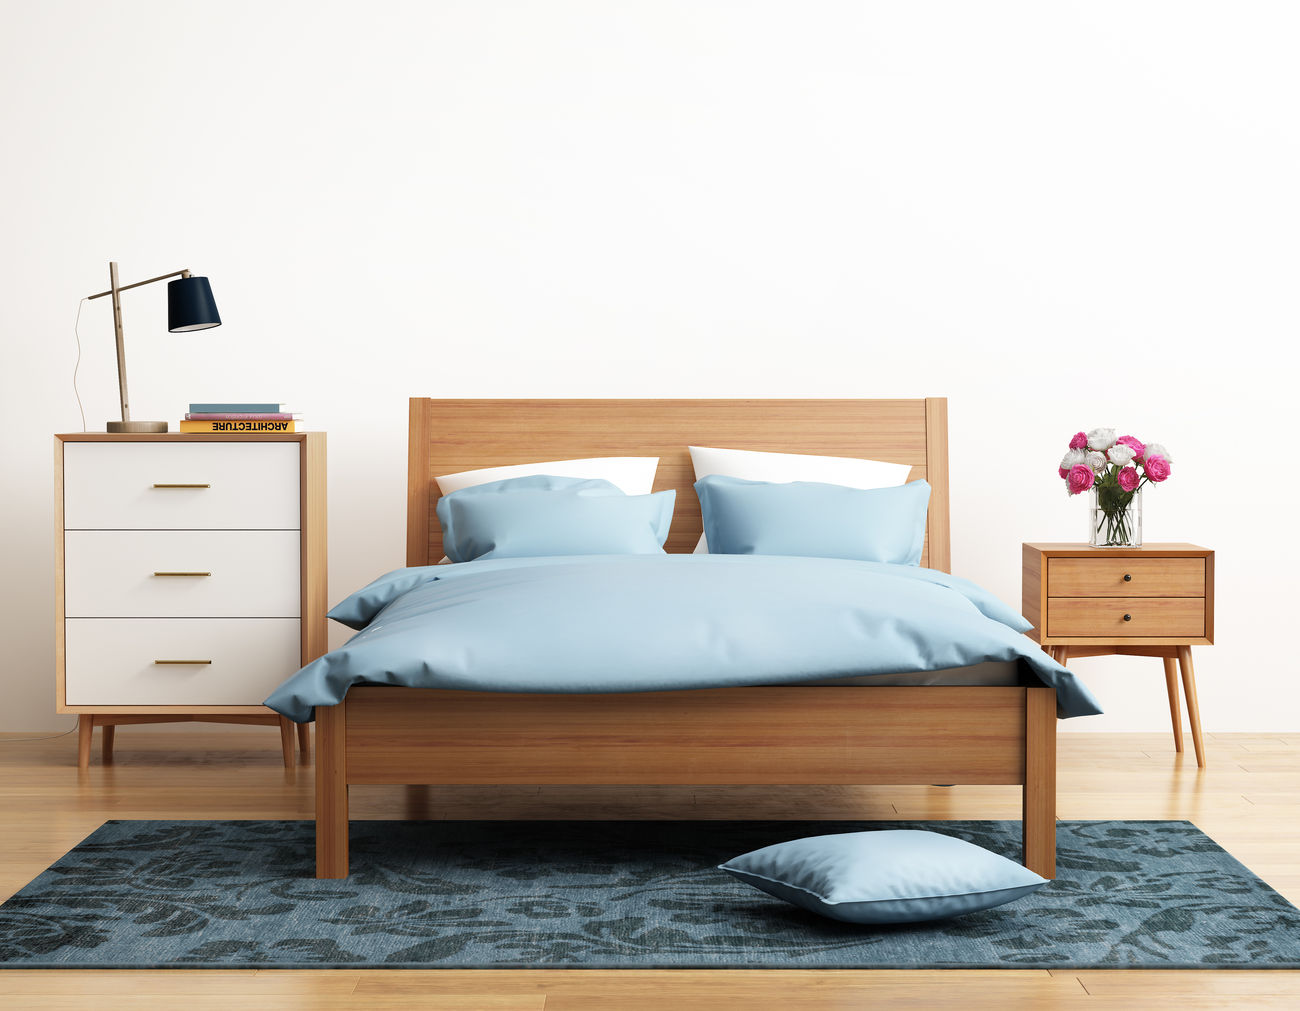
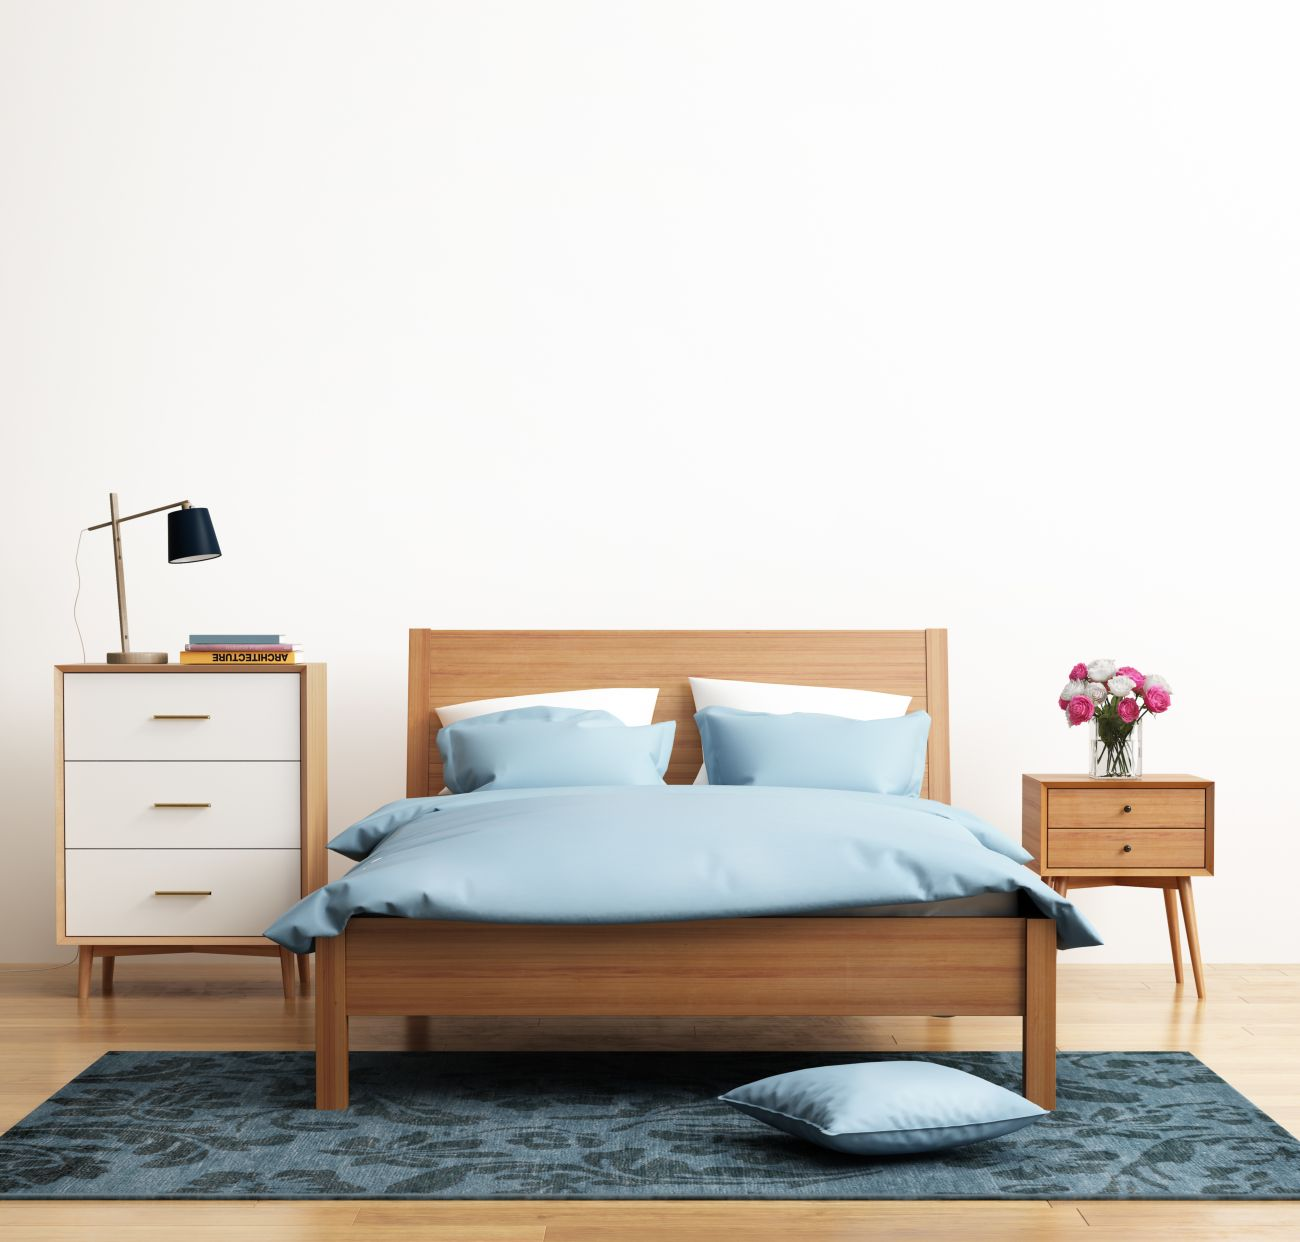
interier preview: set individual size ranges for each interior

diff --git a/templates1/index.html b/templates1/index.html
@@ -930,37 +930,38 @@
                                         <div class="accordion-content">
                                             <div class="interior-slider">
                                                 <div>
-                                                    <div class="interior-item active" data-interior="../img/interior/img1_big.jpg">
+                                                    <div class="interior-item active"
+                                                     data-interior="../img/interior/img1_big.jpg" data-size="200, 300">
                                                         <i class="icon-down-arrow"></i>
                                                         <img src="../img/interior/img1_s.jpg" alt="">
                                                     </div>
                                                 </div>
                                                 <div>
-                                                    <div class="interior-item" data-interior="../img/interior/img2_big.jpg">
+                                                    <div class="interior-item" data-interior="../img/interior/img2_big.jpg" data-size="360, 500">
                                                         <i class="icon-down-arrow"></i>
                                                         <img src="../img/interior/img2_s.jpg" alt="">
                                                     </div>
                                                 </div>
                                                 <div>
-                                                    <div class="interior-item" data-interior="../img/interior/img3_big.jpg">
+                                                    <div class="interior-item" data-interior="../img/interior/img3_big.jpg" data-size="250, 400">
                                                         <i class="icon-down-arrow"></i>
                                                         <img src="../img/interior/img3_s.jpg" alt="">
                                                     </div>
                                                 </div>
                                                 <div>
-                                                    <div class="interior-item" data-interior="../img/interior/img4_big.jpg">
+                                                    <div class="interior-item" data-interior="../img/interior/img4_big.jpg" data-size="200, 300">
                                                         <i class="icon-down-arrow"></i>
                                                         <img src="../img/interior/img4_s.jpg" alt="">
                                                     </div>
                                                 </div>
                                                 <div>
-                                                    <div class="interior-item" data-interior="../img/interior/img5_big.jpg">
+                                                    <div class="interior-item" data-interior="../img/interior/img5_big.jpg" data-size="200, 300">
                                                         <i class="icon-down-arrow"></i>
                                                         <img src="../img/interior/img5_s.jpg" alt="">
                                                     </div>
                                                 </div>
                                                 <div>
-                                                    <div class="interior-item" data-interior="../img/interior/img6_big.jpg">
+                                                    <div class="interior-item" data-interior="../img/interior/img6_big.jpg" data-size="200, 300">
                                                         <i class="icon-down-arrow"></i>
                                                         <img src="../img/interior/img6_s.jpg" alt="">
                                                     </div>

diff --git a/js/modular-generator.js b/js/modular-generator.js
@@ -37,7 +37,7 @@ var modular={
 	}
 	$.fn.setMinMax=function(min, max){
 		if (min==='' || isNaN(min)) min=this.prop('min');
-		if (max==='' || isNaN(max)) max=this.prop('max');		
+		if (max==='' || isNaN(max)) max=this.prop('max');
 		$('~.changeSm span', this)
 		 .eq(0).html(min).end()
 		 .eq(1).html(max)
@@ -334,14 +334,16 @@ var modular={
 		})
 	});
 
-	$('.interior-item').click(function(){
-		$('img', wallTab).prop('src', this.dataset.interior)
-	}).filter('.active').click();
-
 	var wallSizeInp=$('.interior-sizes input').on('input', function(e){
 		wallSizeInp.val(this.value).setBg();
 		wallSvg.width(h2w.w/this.value*100+'%')
 	});
+
+	$('.interior-item').click(function(){
+		$('img', wallTab).prop('src', this.dataset.interior);
+		var minMax=this.dataset.size.split(/[\,,\s]+/);
+		wallSizeInp.setMinMax(minMax[0], minMax[1]).trigger('input');
+	}).filter('.active').click();
 
 	$(window).on('resize', resizeCanvas)
 //})()
